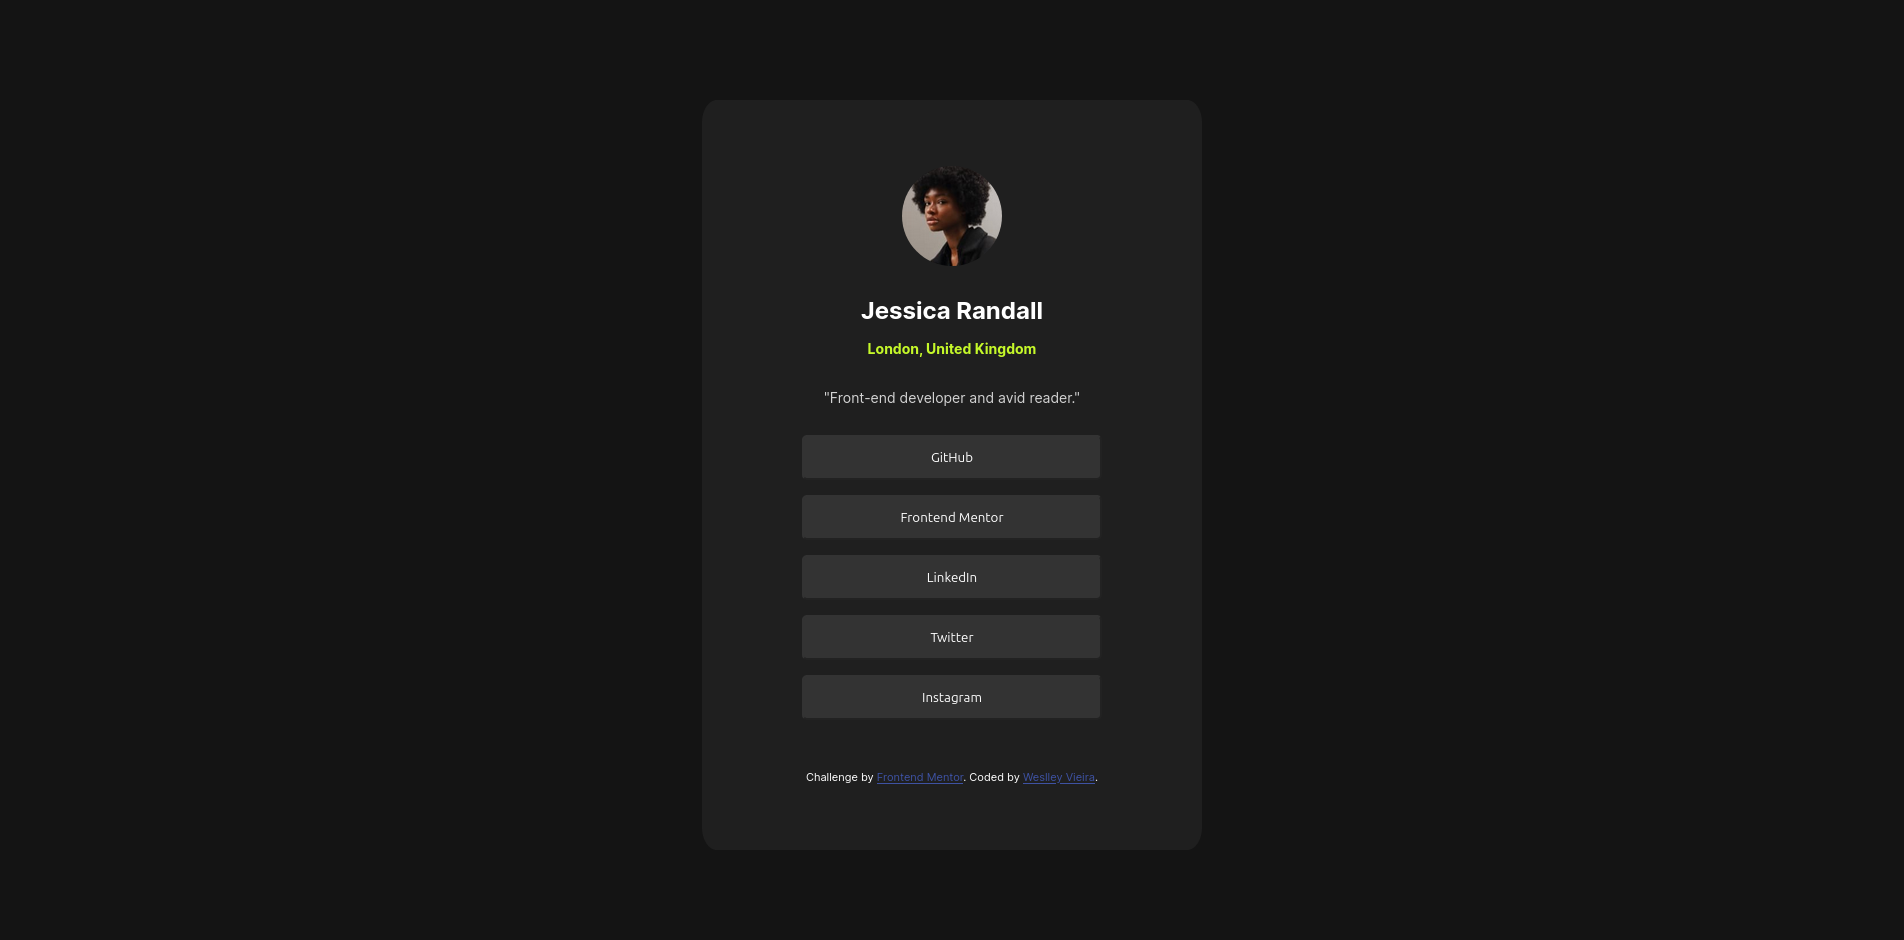
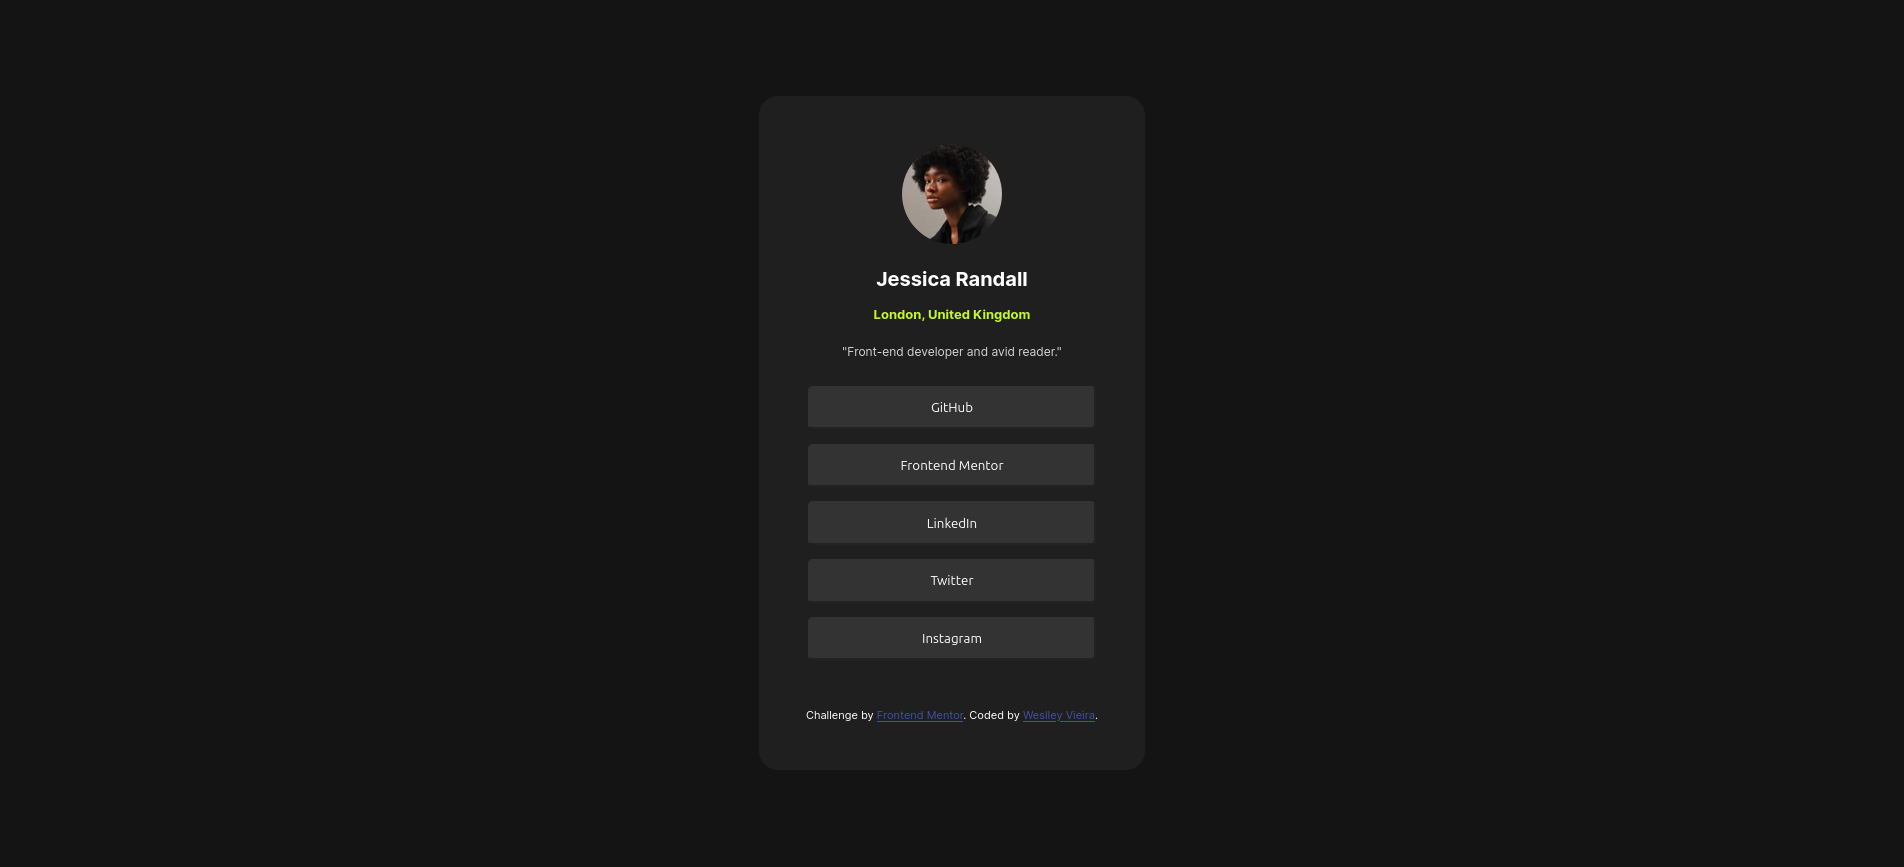
-fix accessibility -refactor code & files organization

diff --git a/index.html b/index.html
@@ -6,114 +6,30 @@
   <meta name="viewport" content="width=device-width, initial-scale=1.0">
 
   <link rel="icon" type="image/png" sizes="32x32" href="./assets/images/favicon-32x32.png">
-
+  <link rel="stylesheet" href="styles.css">
   <title>Frontend Mentor | Social links profile</title>
-
-  <style>
-    @font-face {
-      font-family: 'Inter-Variable';
-      src: url('./assets/fonts/Inter-VariableFont_slnt\,wght.ttf') format('truetype');
-    }
-
-    body {
-      font-family: 'Inter-Variable', sans-serif;
-      background-color: hsl(0, 0%, 8%);
-      display: flex;
-      align-items: center;
-      justify-content: center;
-    }
-
-    .card {
-      color: hsl(0, 0%, 100%);
-      background-color: hsl(0, 0%, 12%);
-      display: flex;
-      flex-direction: column;
-      align-items: center;
-      justify-content: center;
-      width: 500px;
-      height: 750px;
-      margin-top: 100px;
-      margin-bottom: 90px;
-      border-radius: 3%;
-    }
-
-    .card img {
-      border-radius: 50%;
-      width: 100px;
-      margin-bottom: 10px;
-    }
-
-    .card h2 {
-      margin-bottom: 15px;
-    }
-
-    .card h4 {
-      margin-top: 0px;
-      color: hsl(75, 94%, 57%);
-      font-size: 14px;
-    }
-
-    .card p {
-      color: lightgray;
-      font-size: 14px;
-    }
-
-    .buttons {
-      display: flex;
-      flex-direction: column;
-      align-items: center;
-      justify-content: center;
-    }
-
-    button {
-      color: hsl(0, 0%, 100%);
-      background-color: hsl(0, 0%, 20%);
-      border-radius: 5px;
-      margin-top: 15px;
-      width: 300px;
-      height: 45px;
-      border-color:hsl(0, 0%, 20%)
-    }
-
-    button:hover {
-      background-color: hsl(75, 94%, 57%);
-      color: hsl(0, 0%, 8%);
-      cursor: pointer;
-    }
-
-    .attribution {
-      font-size: 11px;
-      text-align: center;
-      margin-top: 50px;
-    }
-
-    .attribution a {
-      color: hsl(228, 45%, 44%);
-    }
-  </style>
 </head>
 
 <body>
-
-  <div class="card">
+  <main class="card">
     <img src="./assets/images/avatar-jessica.jpeg" alt="Jessica Randall - Profile" />
-    <h2>Jessica Randall</h2>
-    <h4>London, United Kingdom</h4>
+    <h1>Jessica Randall</h1>
+    <h2>London, United Kingdom</h2>
     <p>"Front-end developer and avid reader."</p>
 
     <div class="buttons">
-      <button>GitHub</button>
-      <button>Frontend Mentor</button>
-      <button>LinkedIn</button>
-      <button>Twitter</button>
-      <button>Instagram</button>
+      <a href="https://github.com/" target="_blank"><button>GitHub</button></a>
+      <a href="https://www.frontendmentor.io" target="_blank"><button>Frontend Mentor</button></a>
+      <a href="https://www.linkedin.com" target="_blank"><button>LinkedIn</button></a>
+      <a href="https://x.com/" target="_blank"><button>Twitter</button></a>
+      <a href="https://www.instagram.com/" target="_blank"><button>Instagram</button></a>
     </div>
 
     <div class="attribution">
-      Challenge by <a href="https://www.frontendmentor.io?ref=challenge" target="_blank">Frontend Mentor</a>.
+      Challenge by <a href="https://www.frontendmentor.io" target="_blank">Frontend Mentor</a>.
       Coded by <a href="https://github.com/weslleyvieira-dev" target="_blank">Weslley Vieira</a>.
     </div>
-  </div>
+  </main>
 </body>
 
 </html>

diff --git a/styles.css b/styles.css
@@ -1,0 +1,82 @@
+@font-face {
+  font-family: "Inter-Variable";
+  src: url("./assets/fonts/Inter-VariableFont_slnt\,wght.ttf")
+    format("truetype");
+}
+
+body {
+  font-family: "Inter-Variable", sans-serif;
+  background-color: hsl(0, 0%, 8%);
+  display: flex;
+  align-items: center;
+  justify-content: center;
+}
+
+.card {
+  color: hsl(0, 0%, 100%);
+  background-color: hsl(0, 0%, 12%);
+  display: flex;
+  flex-direction: column;
+  align-items: center;
+  justify-content: center;
+  width: 40vh;
+  height: 70vh;
+  margin-top: 10vh;
+  margin-bottom: 10vh;
+  border-radius: 2vh;
+}
+
+.card img {
+  border-radius: 50px;
+  width: 100px;
+  margin-bottom: 1vh;
+}
+
+.card h1 {
+  margin-bottom: 1.5vh;
+  font-size: 20px;
+}
+
+.card h2 {
+  margin-top: 0vh;
+  color: hsl(75, 94%, 57%);
+  font-size: 13px;
+}
+
+.card p {
+  color: lightgray;
+  font-size: 12px;
+}
+
+.buttons {
+  display: flex;
+  flex-direction: column;
+  align-items: center;
+  justify-content: center;
+}
+
+button {
+  color: hsl(0, 0%, 100%);
+  background-color: hsl(0, 0%, 20%);
+  border-radius: 0.5vh;
+  margin-top: 1.5vh;
+  width: 30vh;
+  height: 4.5vh;
+  border-color: hsl(0, 0%, 20%);
+}
+
+button:hover {
+  background-color: hsl(75, 94%, 57%);
+  color: hsl(0, 0%, 8%);
+  cursor: pointer;
+}
+
+.attribution {
+  font-size: 11px;
+  text-align: center;
+  margin-top: 5vh;
+}
+
+.attribution a {
+  color: hsl(228, 45%, 44%);
+}
